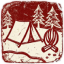
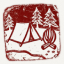
readme fixes + image compressing

diff --git a/github/page/style.css b/github/page/style.css
@@ -92,11 +92,19 @@ main {
 }
 
 .hanzi {
-    list-style: none; font-size: 18pt; padding-left: 10px;
+    margin-left: -20px;
+    list-style: none;
+    font-size: 18pt;
+    padding-left: 0;
 }
 
 .hanzi li {
-    padding: 12px 0; display: flex; align-items: center; border-bottom: rgb(0 0 0 / 3%) 1px solid; cursor: pointer; transition: background-color 0.2s;
+    padding: 12px 20px;
+    display: flex;
+    align-items: center;
+    border-bottom: rgb(0 0 0 / 3%) 1px solid;
+    cursor: pointer;
+    transition: background-color 0.2s;
 }
 
 .hanzi li:last-child {
@@ -112,15 +120,21 @@ main {
 }
 
 .hanzi li span {
-    opacity: 0; visibility: hidden; transition: all 0.6s ease; white-space: nowrap;
+    opacity: 0;
+    visibility: hidden;
+    transition: all 0.6s ease;
+    white-space: nowrap;
 }
 
 .hanzi li:hover span {
-    opacity: 1; visibility: visible; margin-left: 22px;
+    opacity: 1;
+    visibility: visible;
+    margin-left: 22px;
 }
 
 ul {
-    list-style-type: square; color: #555;
+    list-style-type: square;
+    color: #555;
 }
 
 .disclaimer strong {
@@ -128,7 +142,16 @@ ul {
 }
 
 .download {
-    margin-top: 3.5rem; background-color: #74a744; text-align: center; letter-spacing: 0.15rem; color: white; text-decoration: none; font-weight: bold; padding: 1.25rem 4rem; display: block; transition: background-color 0.2s ease-in-out;}
+    margin-top: 3.5rem;
+    background-color: #74a744;
+    text-align: center;
+    letter-spacing: 0.15rem;
+    color: white;
+    text-decoration: none;
+    font-weight: bold;
+    padding: 1.25rem 4rem;
+    display: block;
+    transition: background-color 0.2s ease-in-out;}
 
     .download:hover {
     background-color: #61923c;
@@ -354,11 +377,18 @@ ul {
 
 @media screen and (min-width: 900px) {
     body {
-        display: flex; align-items: center; justify-content: flex-start; font-size: 17pt;
+        display: flex;
+        align-items: center;
+        justify-content: flex-start;
+        font-size: 17pt;
     }
 
     main {
-        padding-right: 215px; max-width: 1500px; padding: 3rem; padding-right: 20rem; margin-bottom: 0;
+        padding-right: 215px;
+        max-width: 1500px;
+        padding: 3rem;
+        padding-right: 20rem;
+        margin-bottom: 0;
     }
 
     #bamboo {
@@ -376,7 +406,9 @@ ul {
     }
     
     .hanzi {
-        margin: 0; font-size: 32pt;
+        margin: 0;
+        margin-left: -20px;
+        font-size: 32pt;
     }
     
     .hanzi li img {
@@ -388,11 +420,13 @@ ul {
     }
     
     .heading {
-        font-size: 30pt; margin-bottom: 2rem;
+        font-size: 30pt;
+        margin-bottom: 2rem;
     }
     
     .logo {
-        width: 150px; margin: 2rem 0;
+        width: 150px;
+        margin: 2rem 0;
     }
     
     .download {
@@ -420,7 +454,8 @@ ul {
     }
     
     .modal-icon {
-        width: 140px; margin-left: -16px;
+        width: 140px;
+        margin-left: -16px;
     }
     
     .modal-description {
@@ -462,18 +497,24 @@ ul {
 
 @keyframes fadeIn {
     from {
-        opacity: 0; transform: translateY(10px);
+        opacity: 0;
+        transform: translateY(10px);
     }
     to {
-        opacity: 1; transform: translateY(0);
+        opacity: 1;
+        transform: translateY(0);
     }
 }
 
 @keyframes stampEffect {
     0% {
-        opacity: 0; transform: scale(1.5) rotate(-10deg); filter: blur(2px);
+        opacity: 0;
+        transform: scale(1.5) rotate(-10deg);
+        filter: blur(2px);
     }
     100% {
-        opacity: 1; transform: scale(1) rotate(-3deg); filter: blur(0);
+        opacity: 1;
+        transform: scale(1) rotate(-3deg);
+        filter: blur(0);
     }
 }

diff --git a/github/page/script.js b/github/page/script.js
@@ -19,7 +19,7 @@ const modalData = {
     2: {
         icon: 'github/page/2.svg',
         title: 'The Price of Light',
-        description: `<h2 style="margin-top: 0;">The Price of Light</h2><p>Torches require iron to craft. Lighting up spaces permanently is no longer a "spam" mechanic, but a strategic decision that demands resource management.</p><table class="modal-table"><tr><td><img src="github/examples/air.png"> <img src="github/examples/torch_nuggets.gif"> <img src="github/examples/air.png"><br><img src="github/examples/air.png"> <img src="github/examples/coal.gif"> <img src="github/examples/air.png"><br><img src="github/examples/air.png"> <img src="github/examples/stick.png"> <img src="github/examples/air.png"></td><td><img src="github/examples/crafting_arrow.gif"></td><td><img src="github/examples/torches.gif"></td></tr></table><div class="tweak-box"><strong>Balancing Tweaks:</strong></div><ul class="tweaks"><li><strong>Primitive Lighting:</strong> Holding right-click with sticks on blocks has a 66% chance of creating fire for early game exploration.</li><li><strong>No Free Lunch:</strong> Campfires are crafted unlit by default.</li></ul>`
+        description: `<h2 style="margin-top: 0;">The Price of Light</h2><p>Torches require iron to craft. Lighting up spaces permanently is no longer a "spam" mechanic, but a strategic decision that demands resource management.</p><table class="modal-table"><tr><td><img src="github/examples/air.png"> <img src="github/examples/torch_nuggets.gif"> <img src="github/examples/air.png"><br><img src="github/examples/air.png"> <img src="github/examples/coal.gif"> <img src="github/examples/air.png"><br><img src="github/examples/air.png"> <img src="github/examples/stick.png"> <img src="github/examples/air.png"></td><td><img src="github/examples/crafting_arrow.gif"></td><td><img src="github/examples/torches.gif"></td></tr></table><div class="tweak-box"><strong>Balancing Tweaks:</strong></div><ul class="tweaks"><li><strong>Primitive Lighting:</strong> Holding right-click with sticks on <a href="https://github.com/lluckymou/foundations/blob/main/data/foundations/tags/block/friction_surfaces.json" target="_blank" style="text-decoration:none;color:unset">most blocks</a> has a 66% chance of creating fire for early game exploration.</li><li><strong>No Free Lunch:</strong> Campfires are crafted unlit by default.</li></ul>`
     },
     3: {
         icon: 'github/page/3.svg',

diff --git a/README.md b/README.md
@@ -1,6 +1,6 @@
-# Foundations for Minecraft <img src="pack.png" align="right">
+<img src="github/README-0.png" alt="README Banner 0" width="100%" /><a href="https://lluckymou.github.io/foundations/"><img src="github/README-1.png" alt="README Banner 1" width="100%" /></a><img src="github/README-2.png" alt="README Banner 2" width="100%" /><a href="#deepslate-age"><img src="github/README-3.png" alt="README Banner 3" width="100%" /></a><a href="#price-of-light"><img src="github/README-4.png" alt="README Banner 4" width="100%" /></a><a href="#industrial-refinement"><img src="github/README-5.png" alt="README Banner 5" width="100%" /></a><a href="#earned-rest"><img src="github/README-6.png" alt="README Banner 6" width="100%" /></a><a href="#dynamic-hostility"><img src="github/README-7.png" alt="README Banner 7" width="100%" /></a><img src="github/README-8.png" alt="README Banner 8" width="100%" /><a href="https://github.com/lluckymou"><img src="github/README-9.png" alt="README Banner 9" width="100%" /></a><img src="github/README-10.png" alt="README Banner 10" width="100%" />
 
-**Maximum impact** through **radical simplicity.** *The "foundation" for your future playthrough.*
+### **Maximum impact** through **radical simplicity.** *The "foundation" for your future playthrough.*
 
 *Foundations* is an ultra-minimalist progression datapack designed under the _Pareto Principle_: applying **minimal changes** to transform 80% of the gameplay experience.
 
@@ -94,7 +94,7 @@ Hostile mobs are no longer static. They feature randomized RNG attribute changes
 ---
 
 ### 🛠 Balancing Tweaks
-* **Primitive Lighting**: Right-clicking blocks with sticks can create fire.
+* **Primitive Lighting**: Right-clicking most blocks with sticks can create fire.
 * **No Free Lunch:** Campfires are crafted unlit.
 * **Easier Retrieval:** Items dropped upon a player's death emit a **glowing outline** when nearby.
 
